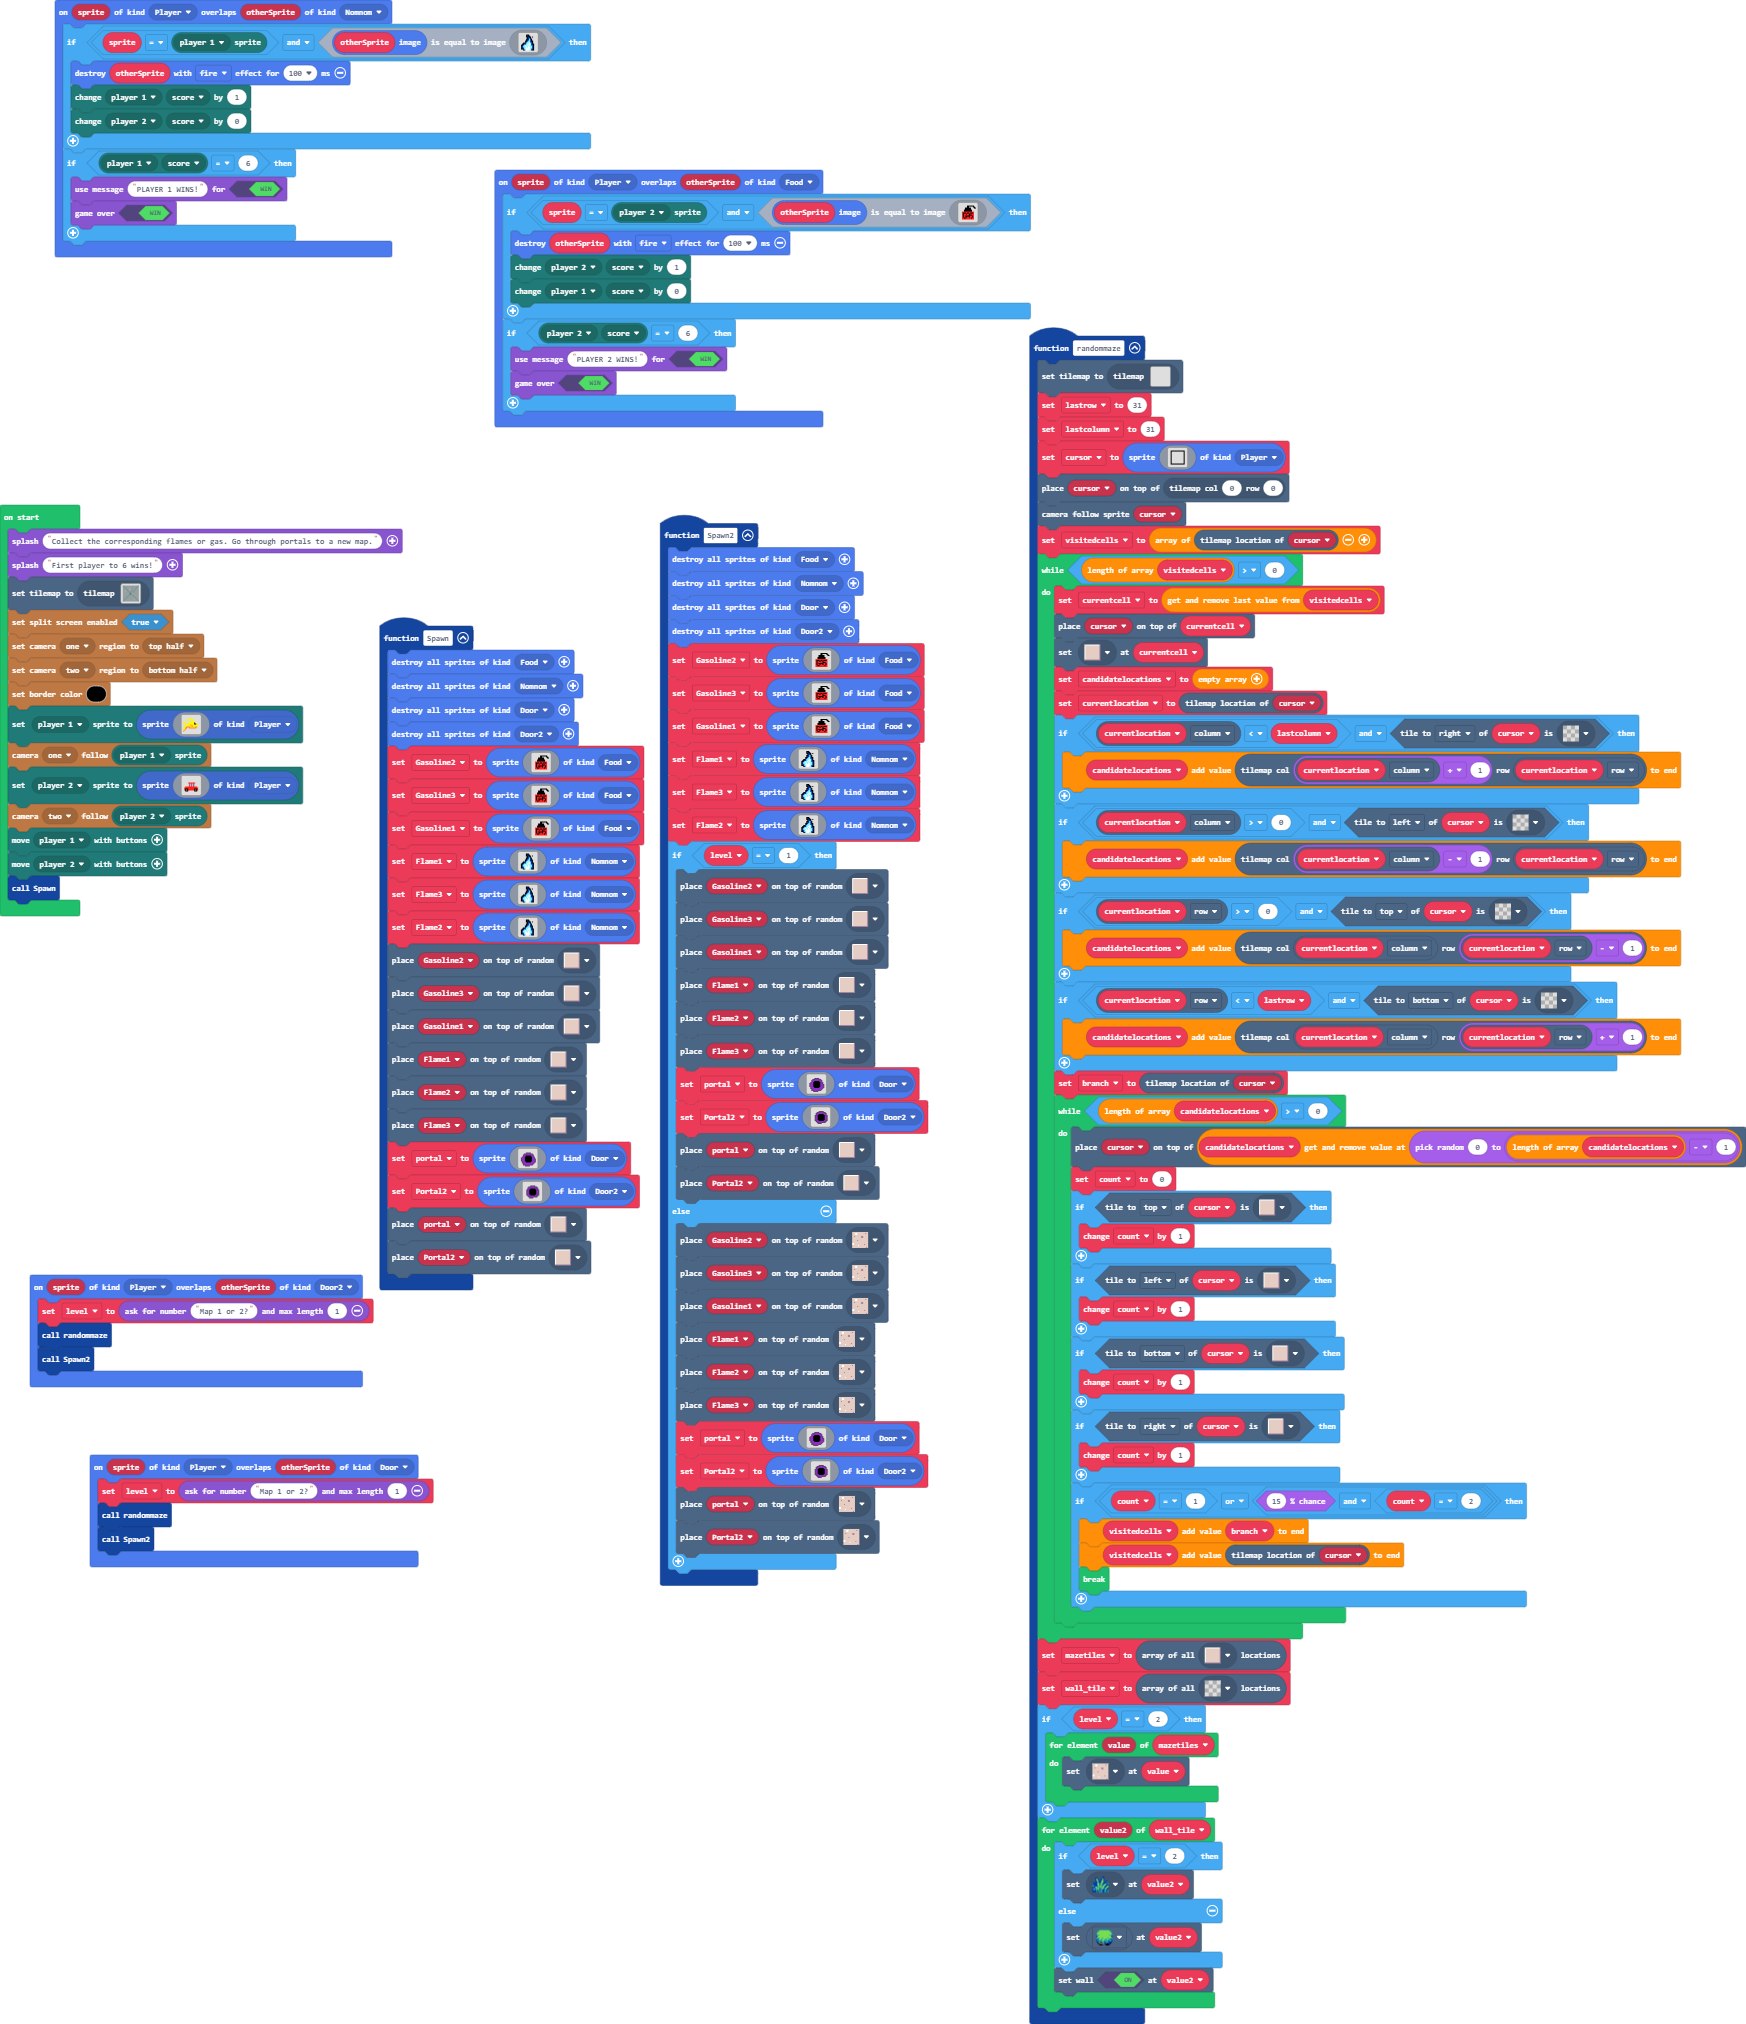
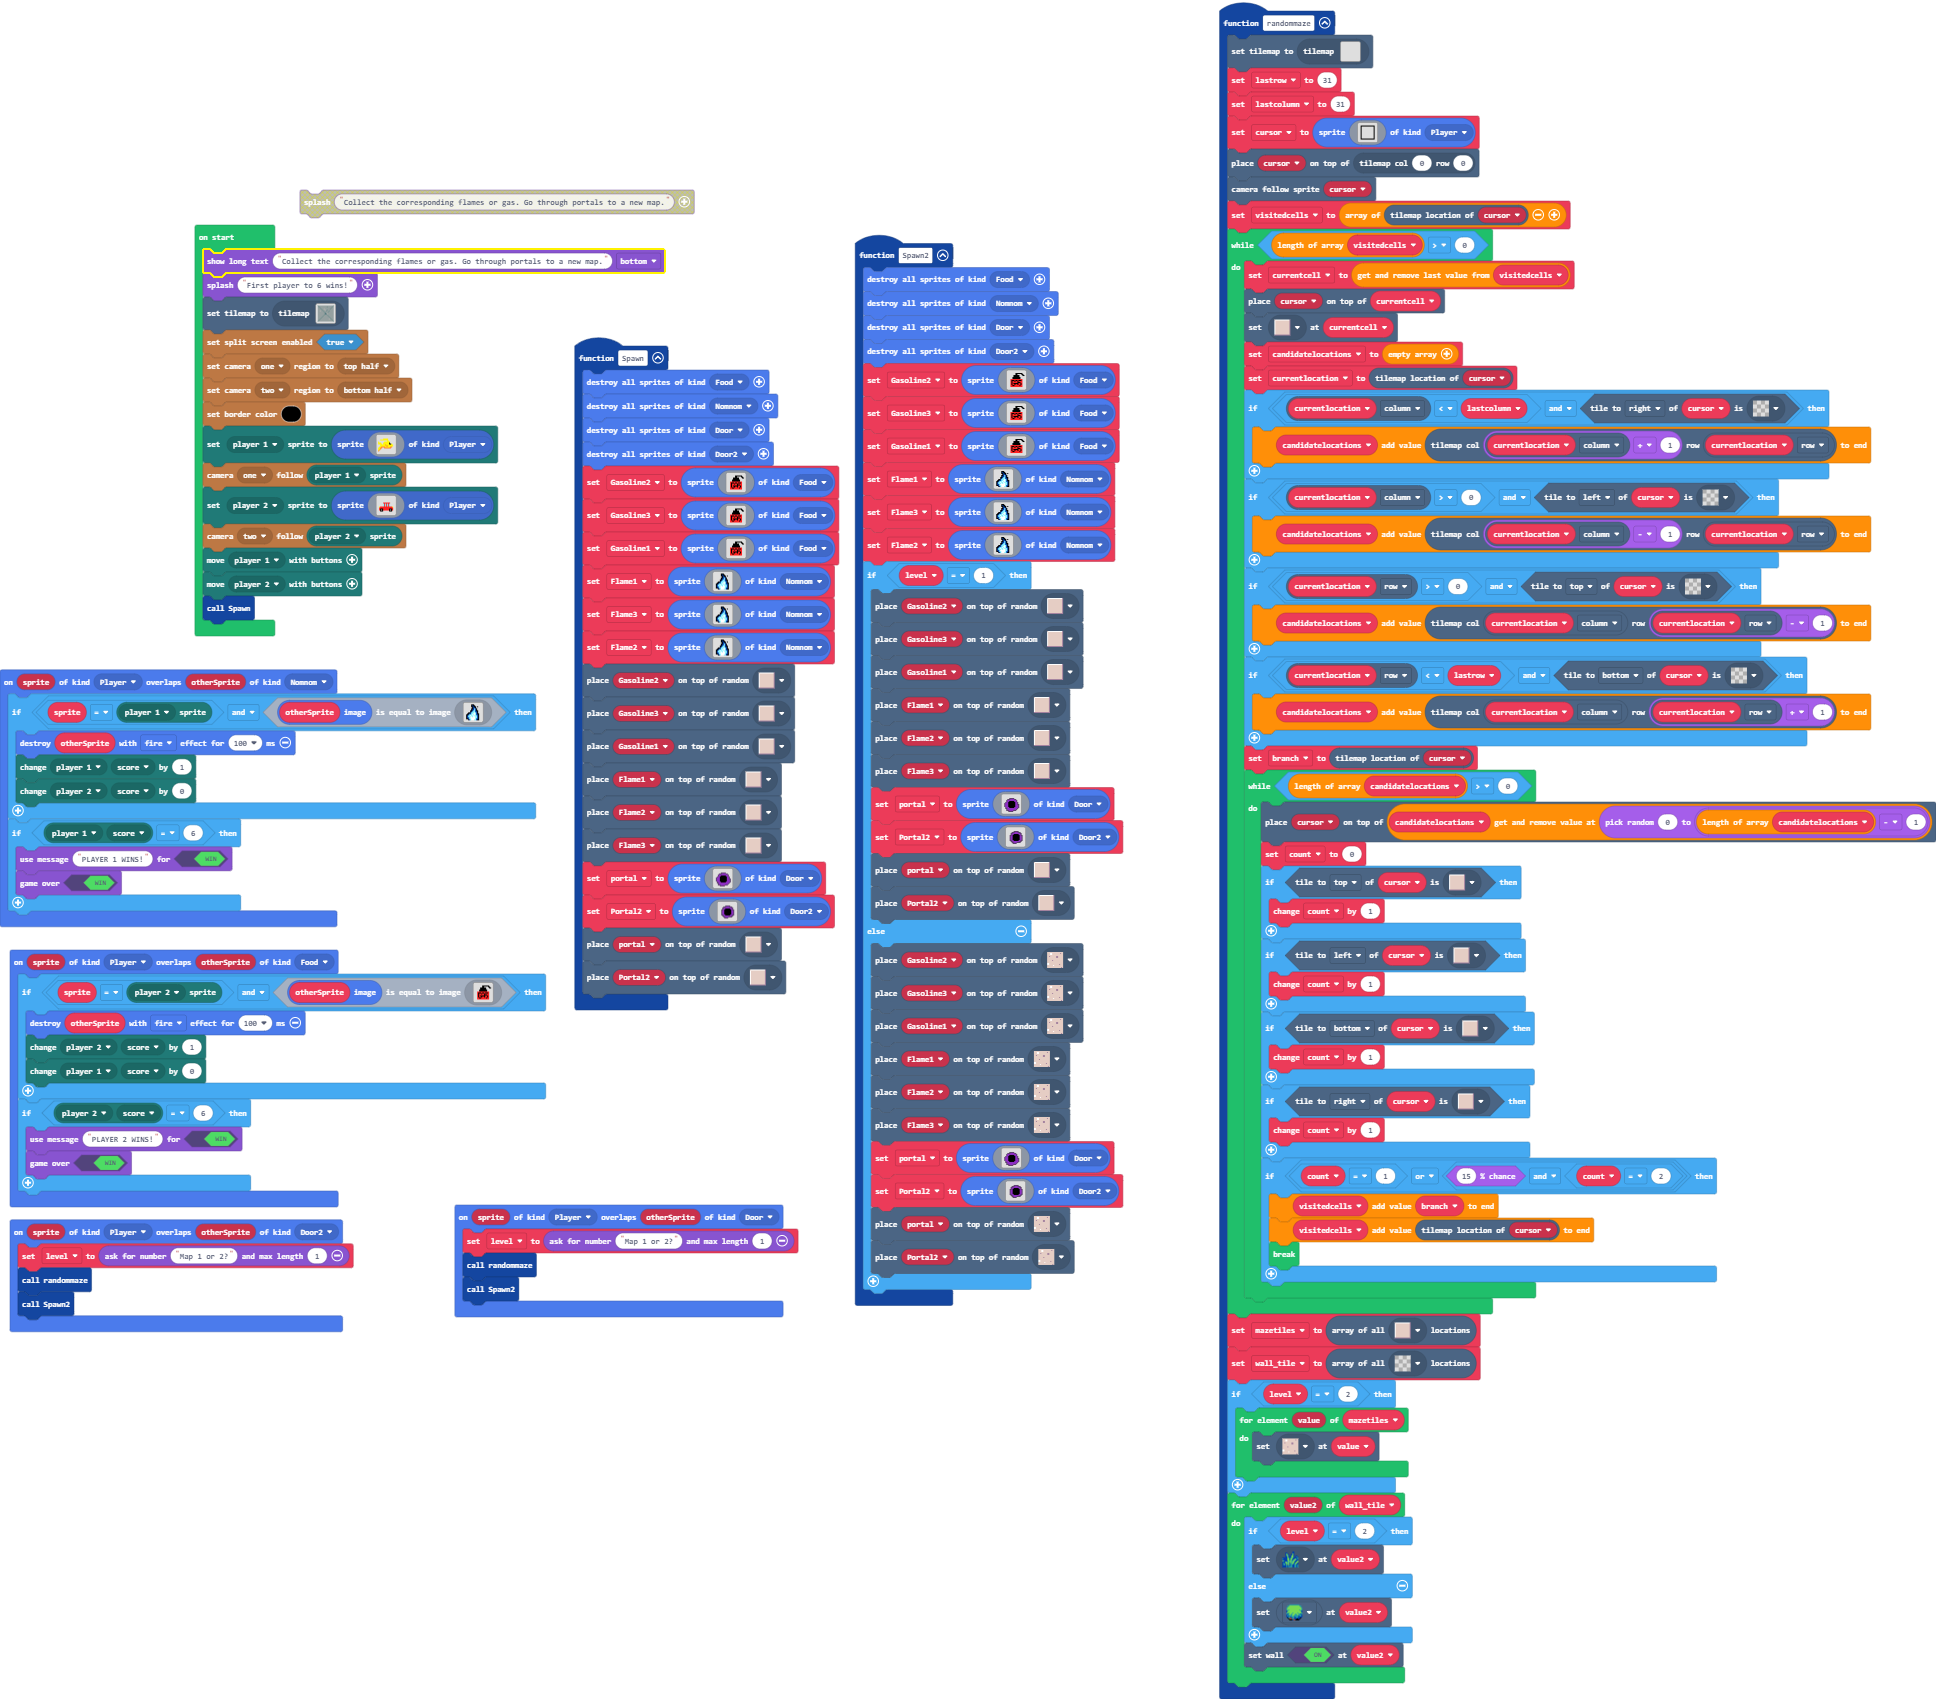
Restore '1/25/2024, 2:57:57 PM Text fix'

diff --git a/tilemap.g.ts b/tilemap.g.ts
@@ -300,25 +300,6 @@ namespace myTiles {
 . . . . . . . . . . . . . . . . 
 . . . . . . . . . . . . . . . . 
 `, [myTiles.transparency16], TileScale.Sixteen);
-            case "level14":
-            case "level14":return tiles.createTilemap(hex`1000100000000000000000000000000000000000000000000000000000000000000000000000000000000000000000000000000000000000000000000000000000000000000000000000000000000000000000000000000000000000000000000000000000000000000000000000000000000000000000000000000000000000000000000000000000000000000000000000000000000000000000000000000000000000000000000000000000000000000000000000000000000000000000000000000000000000000000000000000000000000000000000000000000000000000000000000000000000000000000000000000000000000000000000000000000000000`, img`
-. . . . . . . . . . . . . . . . 
-. . . . . . . . . . . . . . . . 
-. . . . . . . . . . . . . . . . 
-. . . . . . . . . . . . . . . . 
-. . . . . . . . . . . . . . . . 
-. . . . . . . . . . . . . . . . 
-. . . . . . . . . . . . . . . . 
-. . . . . . . . . . . . . . . . 
-. . . . . . . . . . . . . . . . 
-. . . . . . . . . . . . . . . . 
-. . . . . . . . . . . . . . . . 
-. . . . . . . . . . . . . . . . 
-. . . . . . . . . . . . . . . . 
-. . . . . . . . . . . . . . . . 
-. . . . . . . . . . . . . . . . 
-. . . . . . . . . . . . . . . . 
-`, [myTiles.transparency16], TileScale.Sixteen);
         }
         return null;
     })

diff --git a/main.ts b/main.ts
@@ -415,7 +415,7 @@ let visitedcells: tiles.Location[] = []
 let cursor: Sprite = null
 let lastcolumn = 0
 let lastrow = 0
-game.showLongText("Collect the corresponding flames or gas. Go through portals to a new map.", DialogLayout.Center)
+game.showLongText("Collect the corresponding flames or gas. Go through portals to a new map.", DialogLayout.Bottom)
 game.splash("First player to 6 wins!")
 tiles.setCurrentTilemap(tilemap`level3`)
 splitScreen.setSplitScreenEnabled(true)
